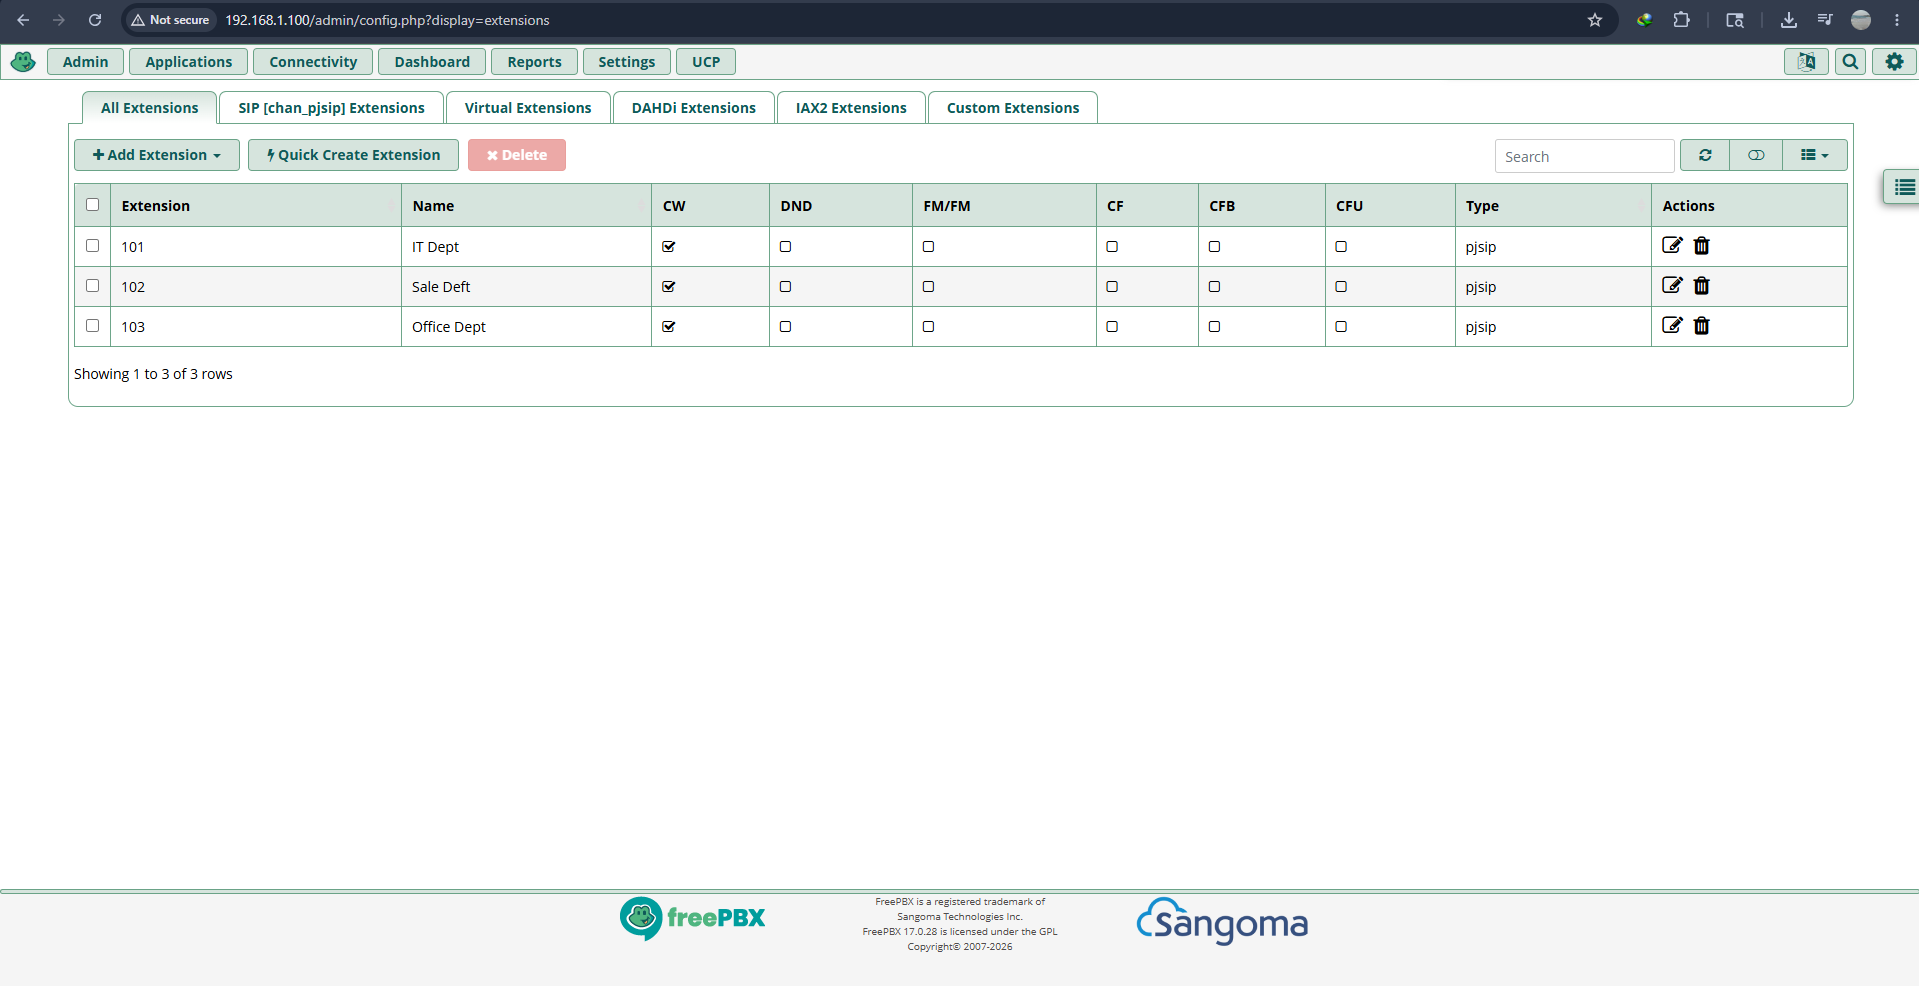
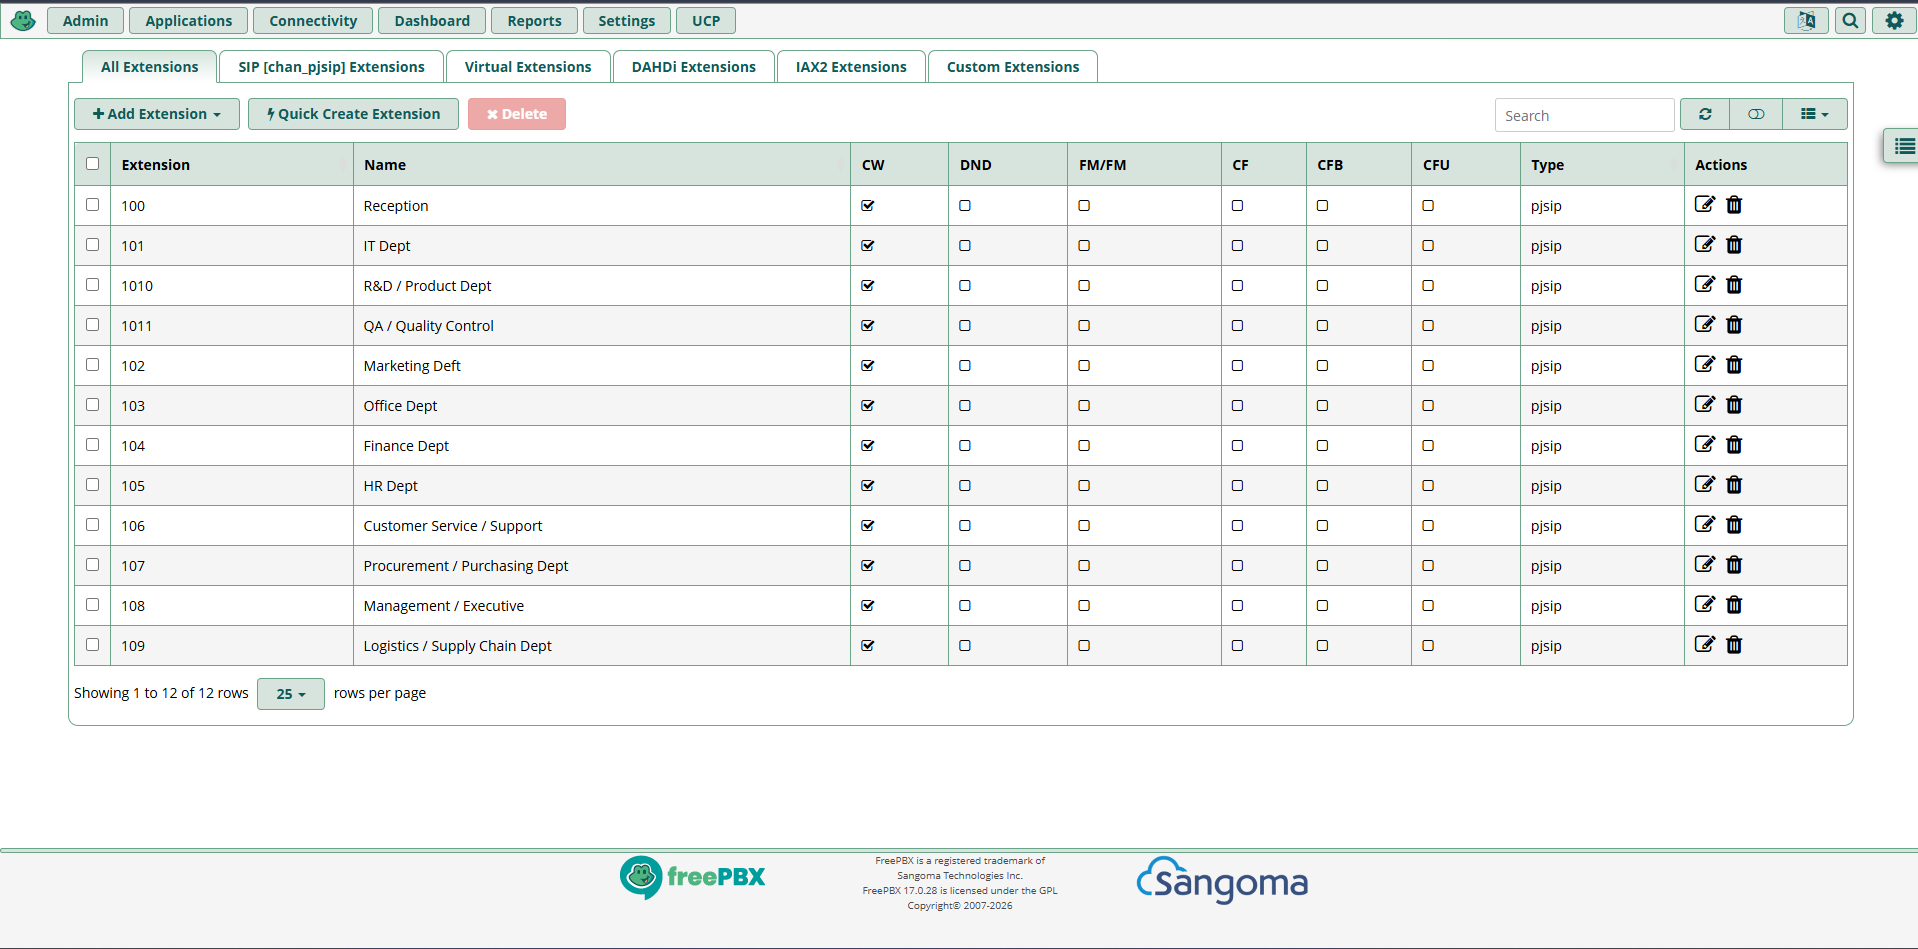
feat: added createRingGroup folder

diff --git a/voip_create_ring_group/README.md b/voip_create_ring_group/README.md
@@ -1,0 +1,148 @@
+# Create Ring Groups in FreePBX — Hands-on Lab
+
+## Objective
+In this hands-on lab, you will learn how to create and configure Ring Groups in FreePBX. Ring Groups allow multiple extensions to ring simultaneously or in a specific order when a call is received.
+
+This is useful for departments such as:
+- IT Team
+- HR Team
+- Customer Service
+- Sales Team
+- Support Team
+
+---
+
+# Lab Environment
+
+| Component | Description |
+|---|---|
+| PBX System | FreePBX |
+| Extensions | 100,102,103,104,105,106 |
+| Ring Group Example | IT Team |
+| Destination if No Answer | Voicemail Notification |
+
+---
+
+# Step 1 — Log in to FreePBX
+
+1. Open a web browser.
+2. Access the FreePBX Admin Portal.
+3. Log in using your administrator account.
+
+---
+
+# Step 2 — Open Ring Groups Menu
+
+Navigate to:
+
+```text
+Applications → Ring Groups
+```
+
+Click:
+
+```text
+Add Ring Group
+```
+
+---
+
+# Step 3 — Configure the Ring Group
+
+Fill in the required settings.
+
+## General Settings
+
+| Field | Example Value |
+|---|---|
+| Ring Group Number | 600 |
+| Group Description | IT Team |
+| Ring Strategy | ringall |
+| Extension List | 100,102,103,104,105,106 |
+| Ring Time | 20 seconds |
+
+---
+
+# Step 4 — Configure Destination if No Answer
+
+Locate the setting:
+
+```text
+Destination if no answer
+```
+
+Select:
+
+```text
+Voicemail Notification
+```
+
+This ensures that if nobody answers the call, it will be redirected to voicemail.
+
+---
+
+# Step 5 — Submit Configuration
+
+Click:
+
+```text
+Submit
+```
+
+Then click:
+
+```text
+Apply Config
+```
+
+to activate the new Ring Group.
+
+---
+
+# Example Ring Groups
+
+| Ring Group Number | Department | Extensions |
+|---|---|---|
+| 2001 | IT Team | 100,102,103 |
+| 2002 | HR Team | 104,105 |
+| 2003 | Customer Service | 106,107,108 |
+
+---
+
+# Testing the Ring Group
+
+1. Dial the Ring Group Number (example: `2001`)
+2. Verify that all assigned extensions ring.
+3. Do not answer the call.
+4. Confirm the call is redirected to voicemail.
+
+---
+
+# Ring Strategies Overview
+
+| Strategy | Description |
+|---|---|
+| ringall | All phones ring simultaneously |
+| hunt | Phones ring one by one |
+| memoryhunt | Remembers which extension answered last |
+| firstavailable | Rings first available extension |
+
+---
+
+# Verification Checklist
+
+✅ Ring Group created successfully  
+✅ Extensions added correctly  
+✅ Calls ring assigned extensions  
+✅ Voicemail activates when unanswered  
+✅ Configuration applied successfully  
+
+---
+
+# Conclusion
+
+I have successfully created and configured Ring Groups in FreePBX. Ring Groups improve call handling by allowing multiple users or departments to receive incoming calls efficiently.
+
+![](./asset/image/createRingGroup.png)
+![calling](./asset/image/calling.png)
+![answer](./asset/image/answer.png)
